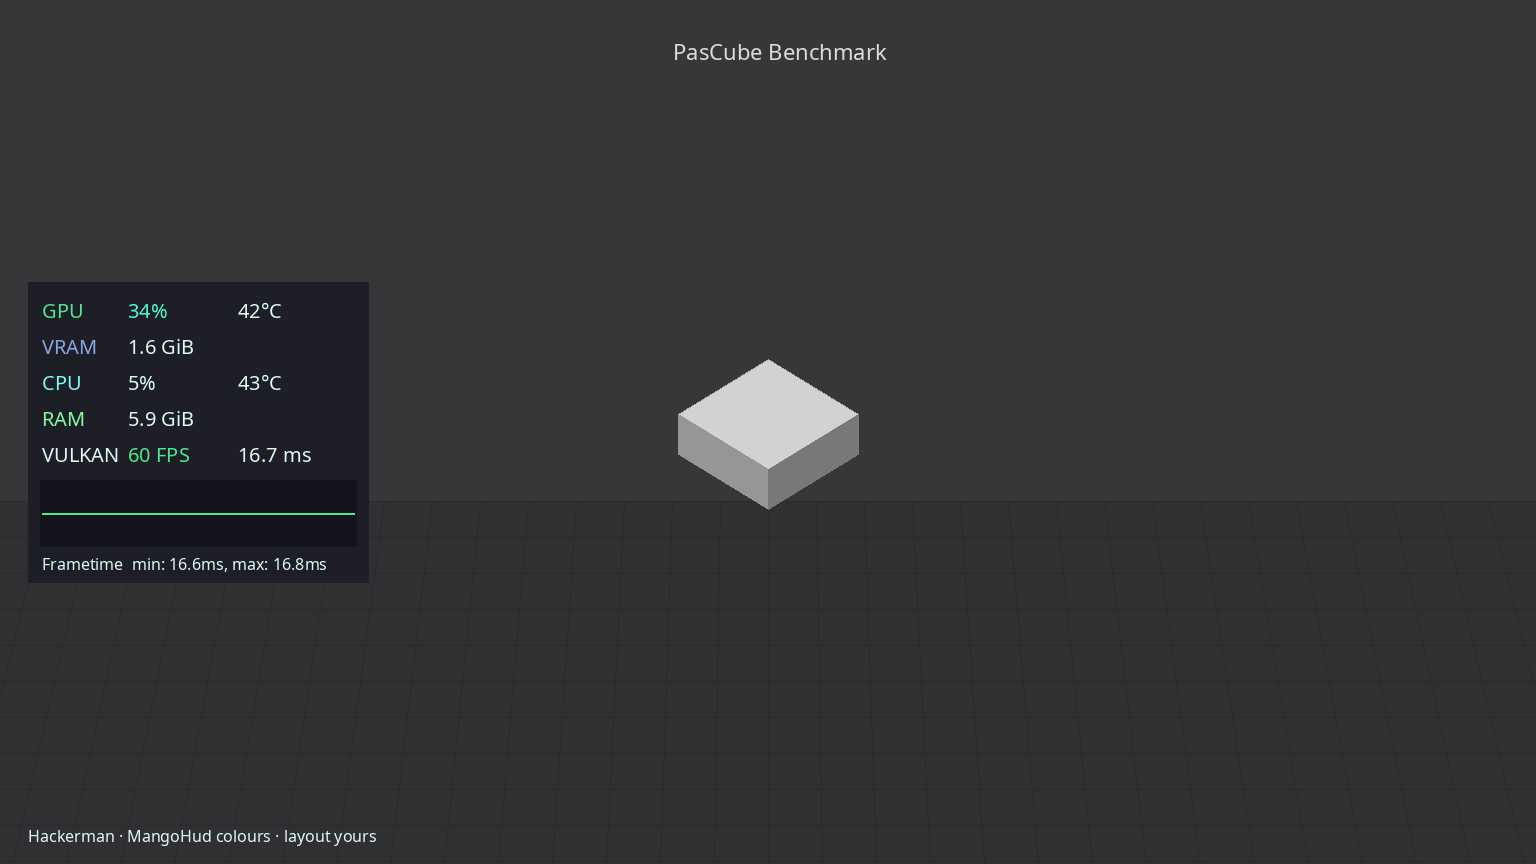
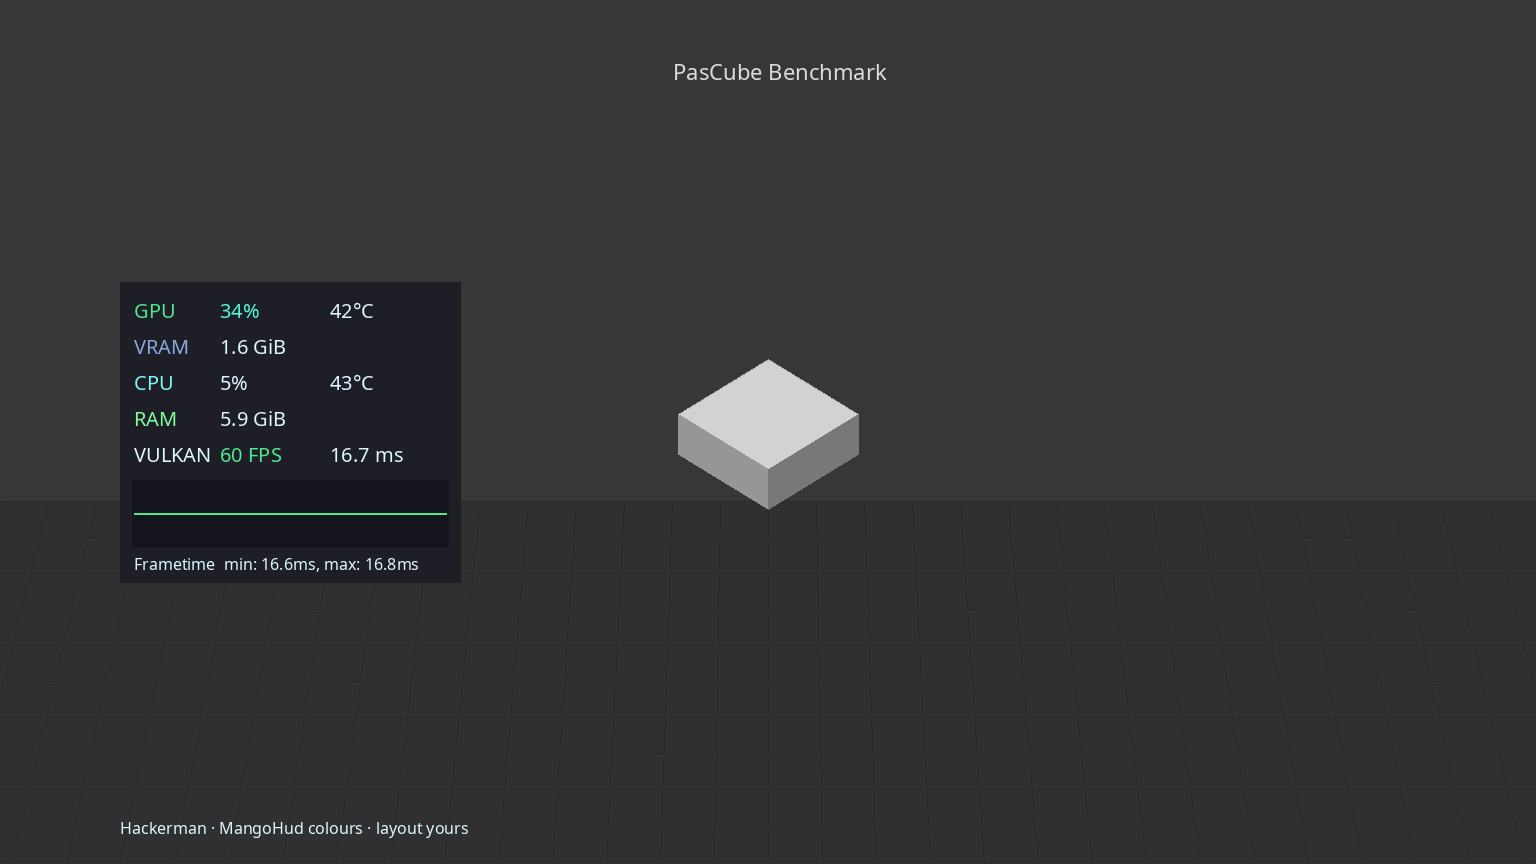
Keep the HUD mockup inside the Style carousel safe inset.

Changed region(s): [[0.0, 0.3125, 0.3125, 0.6562], [0.0625, 0.9375, 0.3125, 1.0], [0.4375, 0.0312, 0.5938, 0.0938]]

diff --git a/lib/omahud.py b/lib/omahud.py
@@ -24,8 +24,12 @@ from PIL import Image, ImageDraw, ImageFont
 
 PLUGIN_ID = "io.github.alxwolfenstein97.omahud"
 HEX_RE = re.compile(r"^#?[0-9A-Fa-f]{6}$")
-MOCKUP_LAYOUT_VERSION = "2"
+MOCKUP_LAYOUT_VERSION = "3"
 MOCKUP_SIZE = (1536, 864)
+# omarchy-menu-images serves 1536×864 then crops ~8% sides into the Style tile —
+# keep the HUD panel inside this inset or labels get chopped.
+SAFE_X = 120
+SAFE_Y = 56
 
 # Keys we may retint. Multi-value keys use comma-separated RRGGBB lists.
 # We only rewrite a key if it already exists in the user's conf — never inject
@@ -513,7 +517,8 @@ def render_mockup(palette: dict[str, str], dest: Path, size: tuple[int, int] = M
 
     Traces the user's Goverlay metrics silhouette (GPU/VRAM/CPU/RAM/engine/FPS +
     frametime graph), not a live capture. Colours come from colors.toml via the
-    same MangoHud key map as apply_theme.
+    same MangoHud key map as apply_theme. Panel stays inside SAFE_X/SAFE_Y so the
+    Style carousel crop does not chop labels.
     """
     w, h = size
     # Neutral “game” viewport (PasCube-ish grey), so palette reads on the HUD only
@@ -541,7 +546,7 @@ def render_mockup(palette: dict[str, str], dest: Path, size: tuple[int, int] = M
         fill=(120, 120, 122),
     )
     title_font = try_ui_font(22)
-    draw.text((cx - 95, 36), "PasCube Benchmark", font=title_font, fill=(220, 220, 220))
+    draw.text((cx - 95, SAFE_Y), "PasCube Benchmark", font=title_font, fill=(220, 220, 220))
 
     text = _rgb_strip(palette["text_color"])
     gpu = _rgb_strip(palette["gpu_color"])
@@ -553,10 +558,12 @@ def render_mockup(palette: dict[str, str], dest: Path, size: tuple[int, int] = M
     fps_lo, fps_mid, fps_hi = _triple_rgbs(palette["fps_color"])
     load_lo, load_mid, load_hi = _triple_rgbs(palette["gpu_load_color"])
 
-    # Middle-left panel (reference: vertically centered, left edge)
+    # Middle-left panel inside carousel safe inset (not flush to the canvas edge)
     panel_w, panel_h = 340, 300
-    panel_x = 28
-    panel_y = (h - panel_h) // 2
+    panel_x = SAFE_X
+    panel_y = max(SAFE_Y + 24, (h - panel_h) // 2)
+    if panel_y + panel_h > h - SAFE_Y - 36:
+        panel_y = h - SAFE_Y - 36 - panel_h
     panel_bg = _rgb_strip(palette["background_color"])
     panel_fill = tuple(int(panel_bg[i] * 0.55 + field[i] * 0.45) for i in range(3))
     draw.rectangle(
@@ -604,7 +611,7 @@ def render_mockup(palette: dict[str, str], dest: Path, size: tuple[int, int] = M
     )
 
     badge = f"{palette['_name']} · MangoHud colours · layout yours"
-    draw.text((28, h - 40), badge, font=font_sm, fill=text)
+    draw.text((SAFE_X, h - SAFE_Y + 8), badge, font=font_sm, fill=text)
 
     save_png_atomic(img, dest)
     return dest

diff --git a/README.md b/README.md
@@ -17,7 +17,7 @@ once Style plugins got good. OmaHud is the other side of that idea.
 |------|----------------------|
 | Colours only | Rewrite existing `*_color` keys in `~/.config/MangoHud/MangoHud.conf`. Never invent `gpu_stats`, positions, or hotkeys. |
 | Goverlay stays useful | Build the metrics layout in Goverlay; OmaHud only repaints. By default it also retints Goverlay’s own `gameconfig/*/MangoHud.conf` so the colour pickers match (not stock MangoHud green). |
-| Style carousel | Mock HUD tiles from every `colors.toml` — faster than hopping themes and restarting vkcube / games. |
+| Style carousel | Mock HUD tiles from every `colors.toml` — faster than hopping themes and restarting vkcube / games. Panel sits inside the ~8% Style crop inset (same SAFE_X as OmaOBS / OmaTTY) so labels don’t get chopped. |
 | Theme-set sync | Hook keeps HUD colours with the desktop (same idea as OmaOBS / OmaCursor). |
 | Escape hatch | First apply snapshots prior colours; `omahud clear` puts them back. |
 
